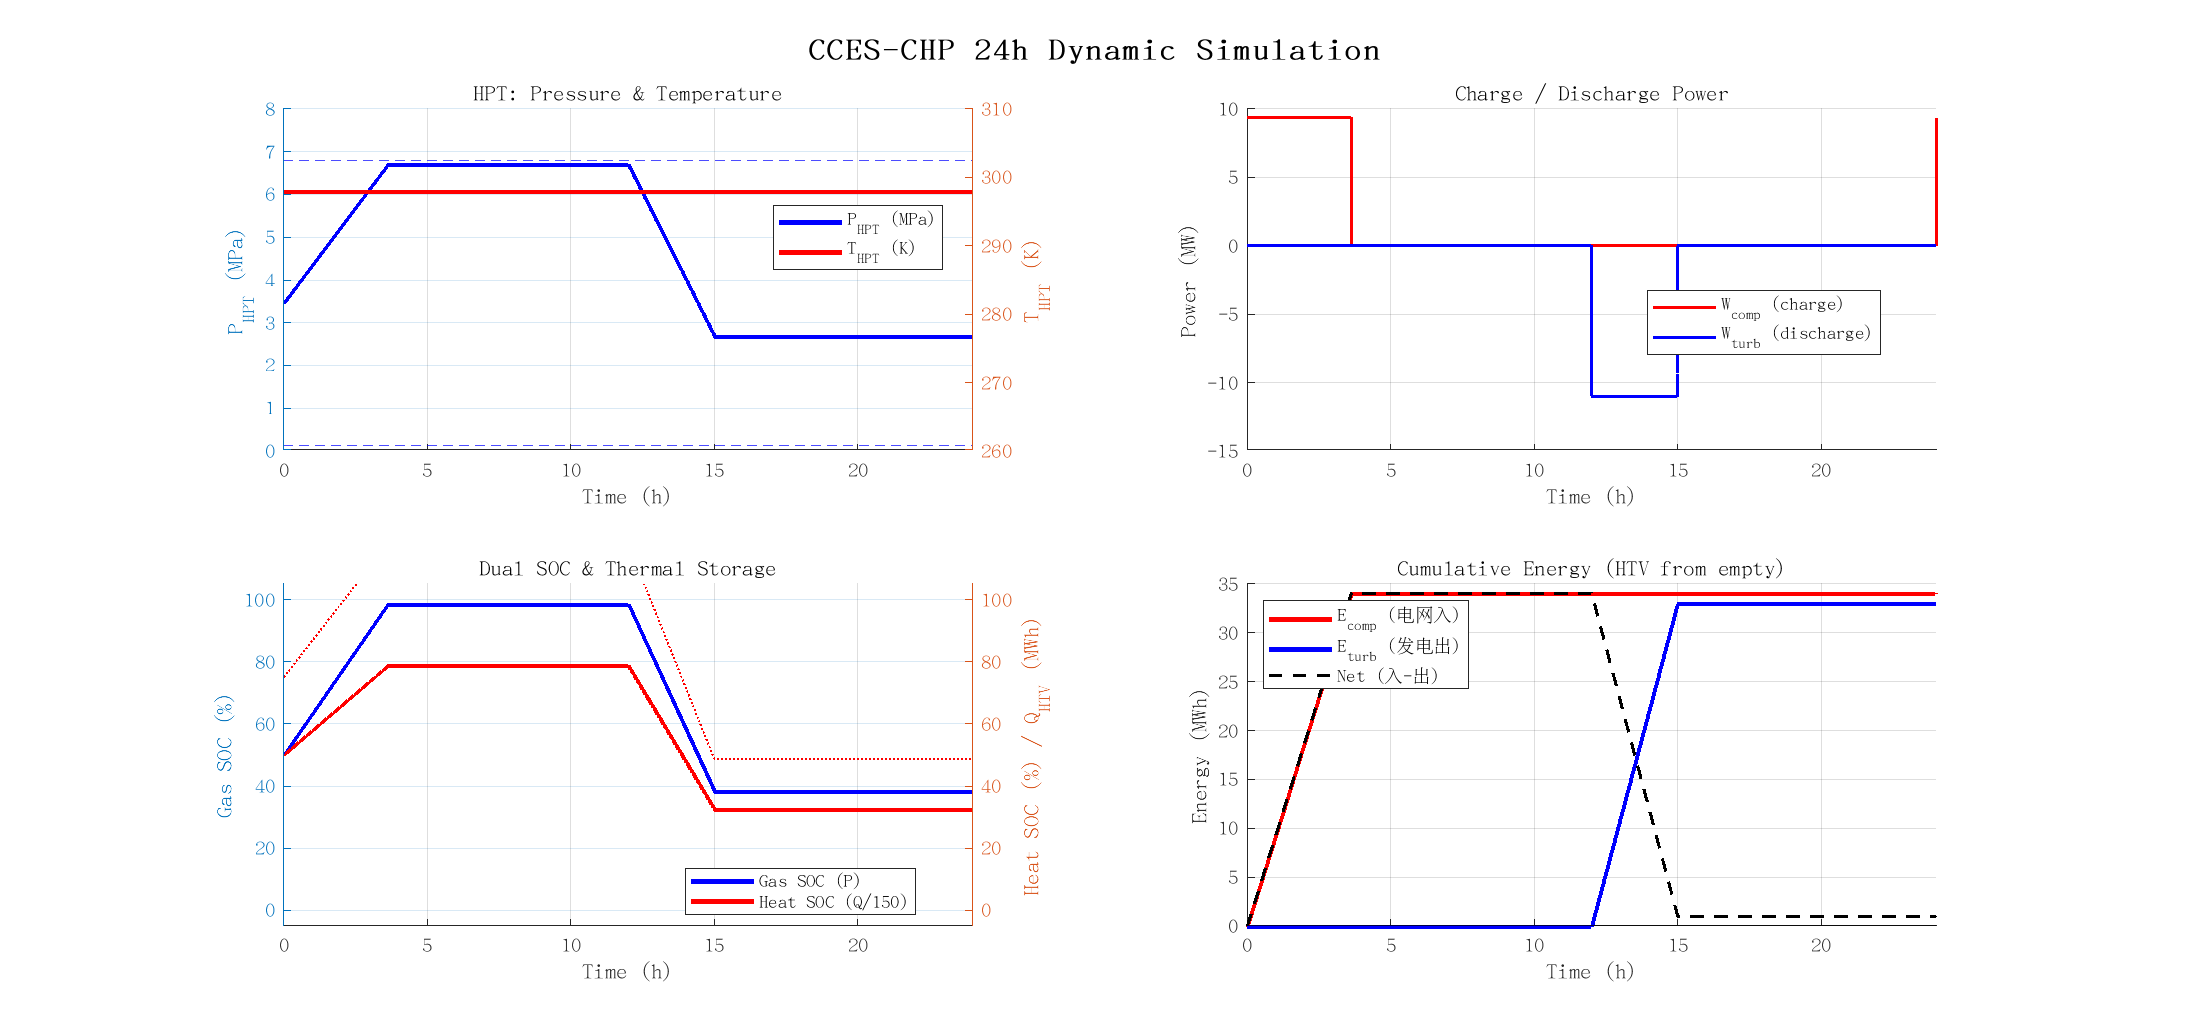
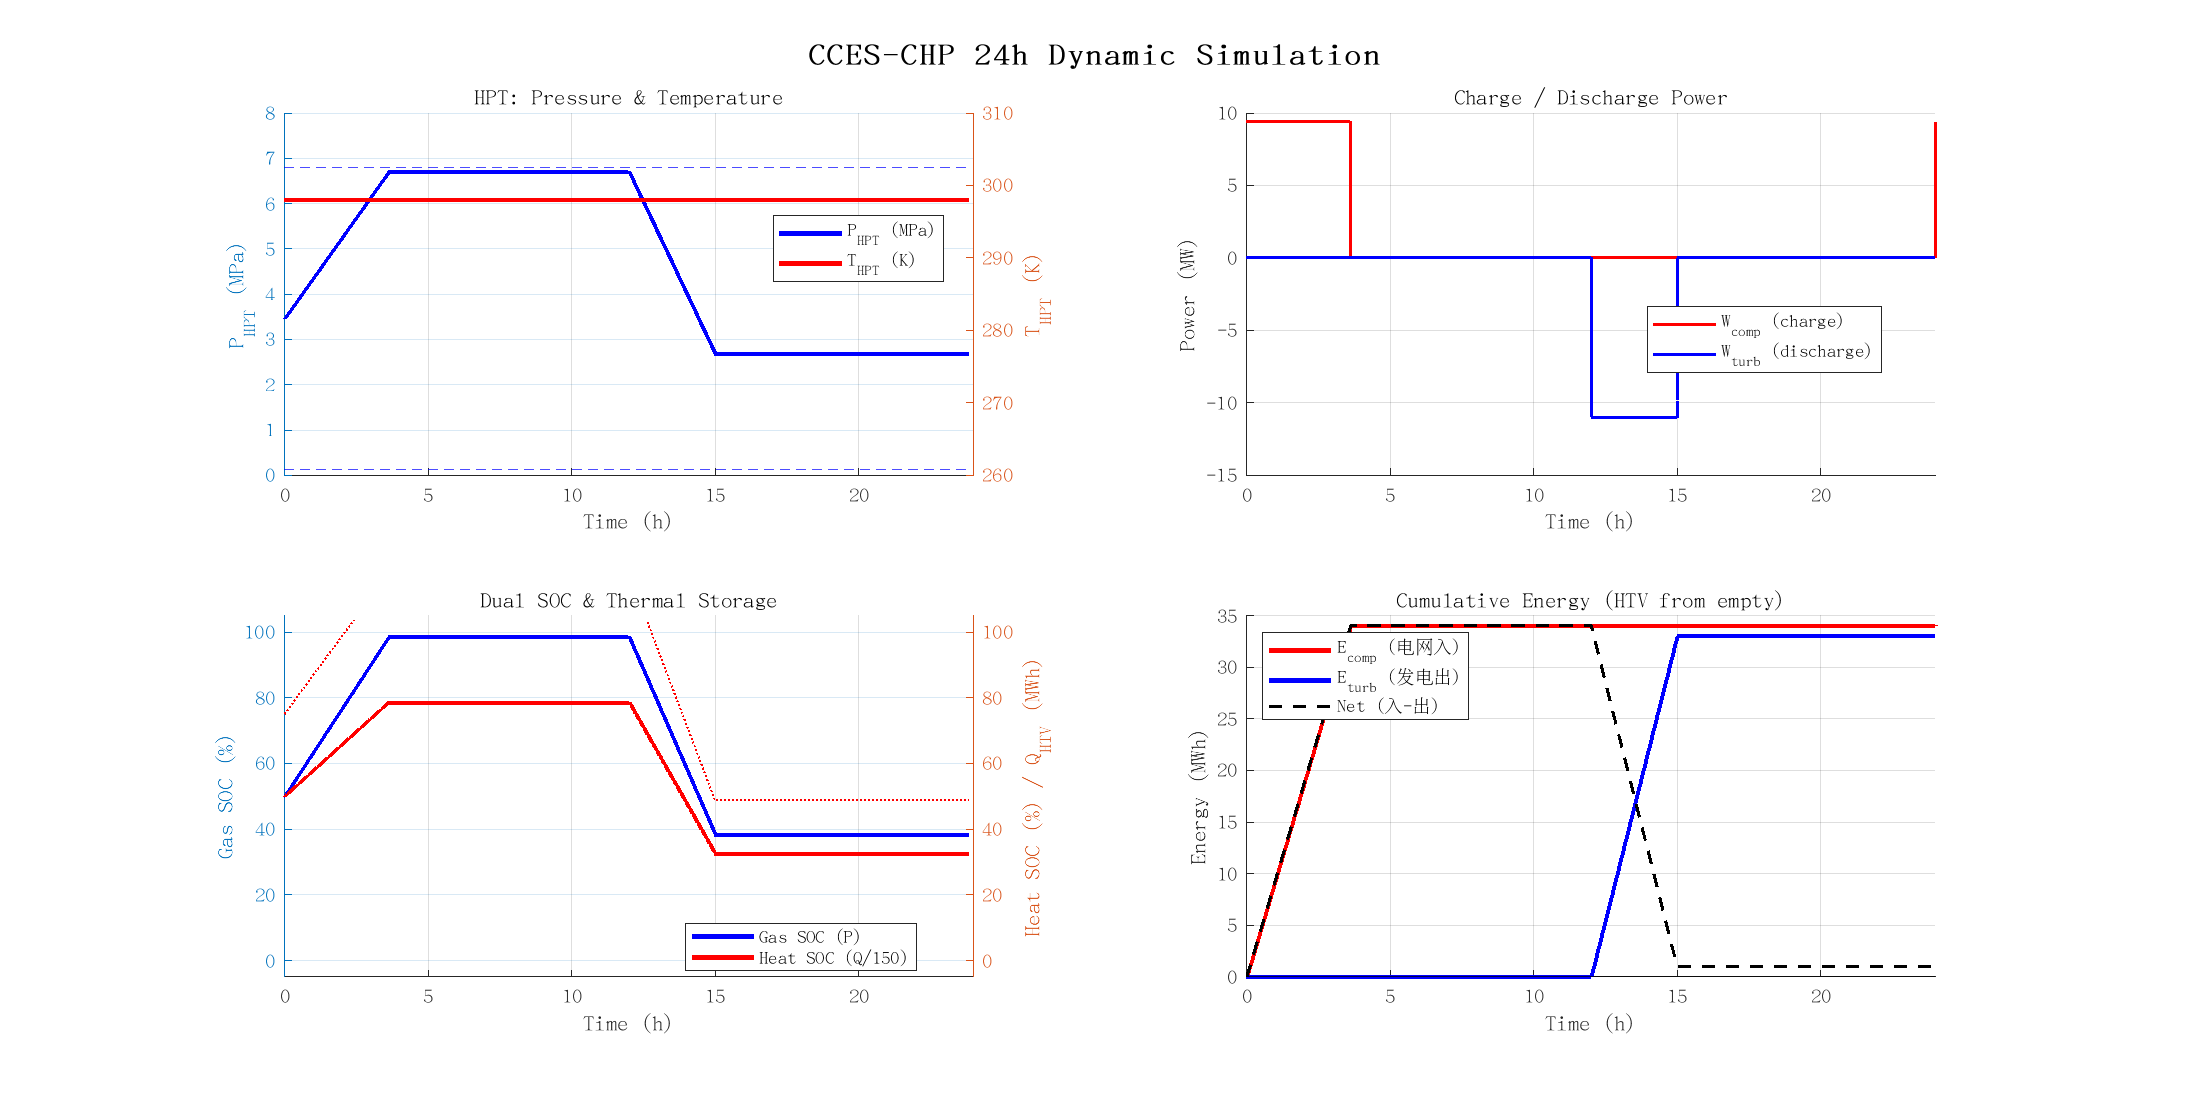
fix: equalize charge/discharge mass flows for correct system RTE
Set alpha2=2.744 (was 4.117) and turbine m_dot=26.9 (was 40.3)
to match charge mass flow. System RTE now directly reflects per-kg
thermodynamic efficiency: 64.7% (close to Cycle.m 66% design).
Previously asymmetric mass flows masked losses: 40.3/26.9=1.5x
discharge mass inflated apparent RTE to 97%.

diff --git a/CCES_CHP_Simulink/src/build_CCES_model.m b/CCES_CHP_Simulink/src/build_CCES_model.m
@@ -52,7 +52,7 @@ function build_CCES_model()
     add_block('simulink/Math Operations/Gain', [model '/alpha1_gain']);
     set_param([model '/alpha1_gain'], 'Gain', '2.744', 'Position', [50, 100, 90, 130]);
     add_block('simulink/Math Operations/Gain', [model '/alpha2_gain']);
-    set_param([model '/alpha2_gain'], 'Gain', '4.117', 'Position', [50, 170, 90, 200]);
+    set_param([model '/alpha2_gain'], 'Gain', '2.744', 'Position', [50, 170, 90, 200]);
     add_block('simulink/Math Operations/Gain', [model '/beta1_gain']);
     set_param([model '/beta1_gain'], 'Gain', '1.185', 'Position', [50, 240, 90, 270]);
     add_block('simulink/Math Operations/Gain', [model '/beta2_gain']);
@@ -319,7 +319,7 @@ function build_discharging(parent)
     add_block('simulink/Ports & Subsystems/In1', b('T_HPT_in'));
     set_param(b('T_HPT_in'), 'Position', [30, 160, 60, 180], 'Port', '2');
     add_const(parent, 'P_in', '6.65e6',    [30, 210, 80, 230]);
-    add_const(parent, 'm_dot', '40.3',     [30, 260, 80, 280]);
+    add_const(parent, 'm_dot', '26.9',     [30, 260, 80, 280]);
 
     add_block('simulink/Ports & Subsystems/Subsystem', b('T1'));
     set_param(b('T1'), 'Position', [240, 60, 390, 300]);
